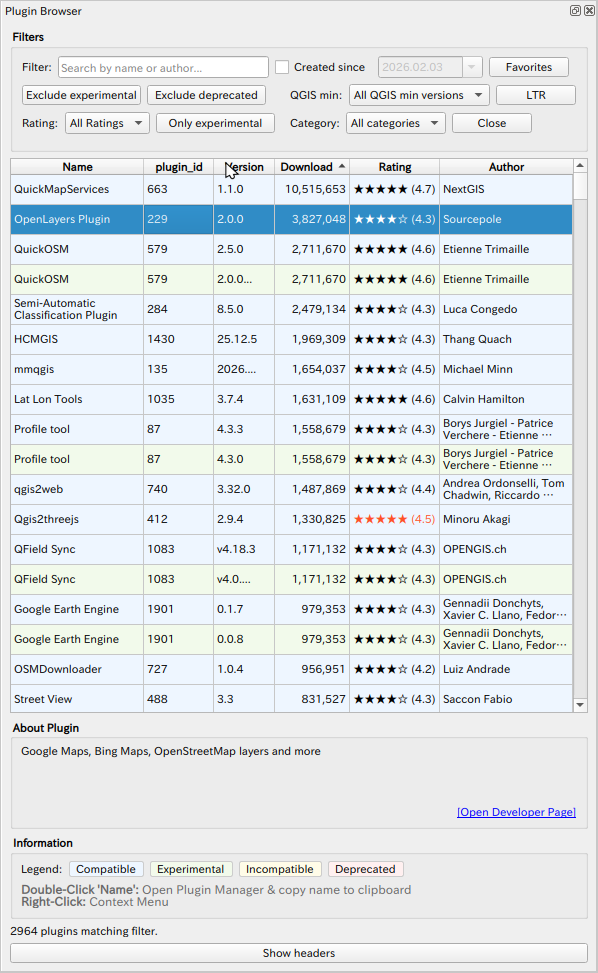
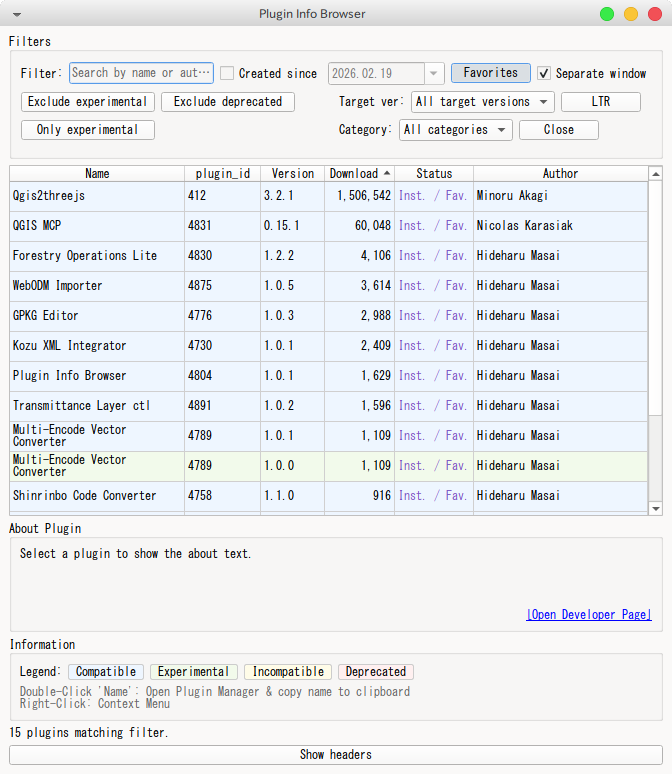
Release 0.1.6 for 3.x maintenance

Changed region(s): [[0.0, 0.0, 1.0, 1.0]]

diff --git a/_table_mixin.py b/_table_mixin.py
@@ -26,7 +26,6 @@ class TableMixin:
 
         for row, plugin in enumerate(plugins):
             downloads_value = int(plugin.get('downloads', 0) or 0)
-            rating_value = float(plugin.get('rating', 0.0) or 0.0)
             version_value = str(plugin.get('version', 'N/A'))
             version_display = version_value if len(version_value) <= 8 else f"{version_value[:5]}..."
 
@@ -67,13 +66,10 @@ class TableMixin:
             downloads_item.setTextAlignment(Qt.AlignRight | Qt.AlignVCenter)
             self.table.setItem(row, 3, downloads_item)
 
-            rating_item = NumericTableWidgetItem()
-            stars_n = max(0, min(5, int(round(rating_value))))
-            stars = ("★" * stars_n) + ("☆" * (5 - stars_n))
-            rating_item.setText(f"{stars} ({rating_value:.1f})")
-            rating_item.setData(Qt.UserRole, rating_value)
-            rating_item.setTextAlignment(Qt.AlignCenter)
-            self.table.setItem(row, 4, rating_item)
+            status_item = QtWidgets.QTableWidgetItem()
+            status_item.setTextAlignment(Qt.AlignCenter)
+            self.table.setItem(row, 4, status_item)
+            self._update_row_status_item(row)
 
             self.table.setItem(row, 5, QtWidgets.QTableWidgetItem(plugin['author']))
 
@@ -93,16 +89,47 @@ class TableMixin:
                 if item is not None:
                     item.setBackground(row_color)
 
-            if is_installed:
-                rating_cell = self.table.item(row, 4)
-                if rating_cell is not None:
-                    rating_cell.setForeground(QColor(255, 80, 40))
-                    rating_cell.setToolTip(self.tr("Installed plugin"))
-
         self.table.setSortingEnabled(True)
         self.table.sortByColumn(3, Qt.DescendingOrder)
         self.filter_table()
         self._on_table_selection_changed()
+
+    def _update_row_status_item(self, row):
+        name_item = self.table.item(row, 0)
+        status_item = self.table.item(row, 4)
+        if name_item is None or status_item is None:
+            return
+
+        plugin_id = str(name_item.data(Qt.UserRole + 1))
+        is_installed = bool(name_item.data(self._INSTALLED_DATA_ROLE))
+        is_favorite = plugin_id in self._favorites
+        labels = []
+        tooltips = []
+        if is_installed:
+            labels.append(self.tr("Inst."))
+            tooltips.append(self.tr("Installed plugin"))
+        if is_favorite:
+            labels.append(self.tr("Fav."))
+            tooltips.append(self.tr("Favorite plugin"))
+
+        status_item.setText(" / ".join(labels))
+        status_item.setToolTip("\n".join(tooltips))
+        if is_installed and is_favorite:
+            status_item.setForeground(QColor(126, 87, 194))
+            status_item.setData(Qt.UserRole, 3)
+        elif is_installed:
+            status_item.setForeground(QColor(46, 125, 50))
+            status_item.setData(Qt.UserRole, 2)
+        elif is_favorite:
+            status_item.setForeground(QColor(21, 101, 192))
+            status_item.setData(Qt.UserRole, 1)
+        else:
+            status_item.setForeground(QColor(80, 80, 80))
+            status_item.setData(Qt.UserRole, 0)
+
+    def _refresh_status_column(self):
+        for row in range(self.table.rowCount()):
+            self._update_row_status_item(row)
 
     @staticmethod
     def _parse_metadata_file(path):

diff --git a/plugin_info_dockwidget.py b/plugin_info_dockwidget.py
@@ -69,8 +69,6 @@ class PluginInfoDockWidget(
         self._pending_mode = None
         self._plugins_cache = []
         self._about_source_text = ""
-        self._rating_mode = "all"
-        self._rating_value = 0.0
         self._network_timeout = QTimer(self)
         self._network_timeout.setSingleShot(True)
         self._network_timeout.timeout.connect(self._on_network_timeout)
@@ -169,24 +167,8 @@ class PluginInfoDockWidget(
         minver_controls_layout.addStretch(1)
         button_grid_layout.addLayout(minver_controls_layout, 0, 1)
 
-        # Rating controls (left column)
+        # Status and experimental controls (left column)
         setting_controls_layout = QtWidgets.QHBoxLayout()
-        setting_controls_layout.addWidget(QtWidgets.QLabel(self.tr("Rating:")))
-        self.rating_filter_combo = QtWidgets.QComboBox()
-        for label, mode, value in [
-            ("All Ratings", "all", 0.0),
-            ("4.5+", "min", 4.5),
-            ("4.0+", "min", 4.0),
-            ("3.0+", "min", 3.0),
-            ("2.0+", "min", 2.0),
-            ("1.0+", "min", 1.0),
-            ("1.0-", "max", 1.0),
-            ("2.0-", "max", 2.0),
-            ("3.0-", "max", 3.0),
-            ("4.5-", "max", 4.5),
-        ]:
-            self.rating_filter_combo.addItem(self.tr(label), (mode, float(value)))
-        setting_controls_layout.addWidget(self.rating_filter_combo)
         self.only_experimental_button = QtWidgets.QPushButton(self.tr("Only experimental"))
         self.only_experimental_button.setCheckable(True)
         self.only_experimental_button.setChecked(False)
@@ -232,7 +214,7 @@ class PluginInfoDockWidget(
         self.table.setColumnCount(6)
         self.table.setHorizontalHeaderLabels([
             self.tr("Name"), self.tr("plugin_id"), self.tr("Version"),
-            self.tr("Download"), self.tr("Rating"), self.tr("Author")
+            self.tr("Download"), self.tr("Status"), self.tr("Author")
         ])
         self.table.setEditTriggers(QtWidgets.QAbstractItemView.NoEditTriggers)
         self.table.setSelectionBehavior(QtWidgets.QAbstractItemView.SelectRows)
@@ -353,7 +335,6 @@ class PluginInfoDockWidget(
         self.qgis_min_version_combo.currentIndexChanged.connect(lambda _: self.filter_table())
         self.qgis_min_ltr_button.toggled.connect(self._on_qgis_min_ltr_toggled)
         self.category_combo.currentIndexChanged.connect(lambda _: self.filter_table())
-        self.rating_filter_combo.currentIndexChanged.connect(self._on_rating_combo_changed)
         self.close_button.clicked.connect(self.close)
         self.debug_headers_toggle_button.toggled.connect(self._toggle_debug_headers_panel)
         self.table.cellClicked.connect(self._on_table_cell_clicked)

diff --git a/_filter_mixin.py b/_filter_mixin.py
@@ -10,8 +10,6 @@ class FilterMixin:
         exclude_experimental = self.exclude_experimental_button.isChecked()
         exclude_deprecated = self.exclude_deprecated_button.isChecked()
         only_experimental = self.only_experimental_button.isChecked()
-        rating_mode = self._rating_mode
-        rating_value = self._rating_value
         selected_minver = str(self.qgis_min_version_combo.currentData() or "")
         selected_category = str(self.category_combo.currentData() or "")
         use_created_since = self.created_since_checkbox.isChecked()
@@ -29,7 +27,6 @@ class FilterMixin:
             row_create_date = self.table.item(i, 0).data(Qt.UserRole + 4)
             row_minver = str(self.table.item(i, 0).data(Qt.UserRole + 5) or "")
             row_category = str(self.table.item(i, 0).data(Qt.UserRole + 7) or "")
-            row_rating = float(self.table.item(i, 4).data(Qt.UserRole) or 0.0)
             row_id = str(self.table.item(i, 0).data(Qt.UserRole + 1))
 
             match_text = (
@@ -38,12 +35,6 @@ class FilterMixin:
                 or search_term in version_text
                 or search_term in author_text
             )
-
-            rating_match = True
-            if rating_mode == "min":
-                rating_match = row_rating >= rating_value
-            elif rating_mode == "max":
-                rating_match = row_rating <= rating_value
 
             created_match = True
             if use_created_since:
@@ -62,7 +53,6 @@ class FilterMixin:
                 and not (exclude_experimental and is_experimental)
                 and not (exclude_deprecated and is_deprecated)
                 and (not only_experimental or is_experimental)
-                and rating_match
                 and created_match
                 and minver_match
                 and category_match
@@ -73,18 +63,6 @@ class FilterMixin:
                 visible_rows += 1
 
         self.status_label.setText(self.tr("{} plugins matching filter.").format(visible_rows))
-
-    def _on_rating_combo_changed(self, _index):
-        selected = self.rating_filter_combo.currentData()
-        if not selected:
-            self._rating_mode = "all"
-            self._rating_value = 0.0
-            self.filter_table()
-            return
-        mode, value = selected
-        self._rating_mode = str(mode)
-        self._rating_value = float(value or 0.0)
-        self.filter_table()
 
     def _on_created_since_toggled(self, checked):
         self.created_since_date_edit.setEnabled(bool(checked))

diff --git a/_settings_mixin.py b/_settings_mixin.py
@@ -63,10 +63,12 @@ class SettingsMixin:
     def _add_favorite(self, plugin_id):
         self._favorites.add(str(plugin_id))
         self._save_favorites()
+        self._refresh_status_column()
         self.filter_table()
 
     def _remove_favorite(self, plugin_id):
         if str(plugin_id) in self._favorites:
             self._favorites.remove(str(plugin_id))
             self._save_favorites()
+            self._refresh_status_column()
             self.filter_table()

diff --git a/README.md b/README.md
@@ -8,12 +8,12 @@ A QGIS plugin that fetches the official QGIS plugin repository and displays all 
 
 - Fetches live data from the QGIS official plugin repository
 - Filter by name, author, plugin ID, or version text
-- Filter by rating, QGIS minimum version, category, creation date
+- Filter by QGIS minimum version, category, creation date
 - Toggle buttons: Exclude experimental / Exclude deprecated / Only experimental
 - LTR-only mode for QGIS minimum version filter
 - Favorites list (persisted across sessions)
+- Status column for installed and favorite plugins
 - Row color coding: Compatible (blue) / Experimental (green) / Incompatible (yellow) / Deprecated (red)
-- Installed plugins highlighted in the rating column
 - **Double-click** a plugin name: opens Plugin Manager and copies the plugin name to clipboard
 - **Right-click**: add/remove from Favorites
 - About text preview panel with link to developer page
